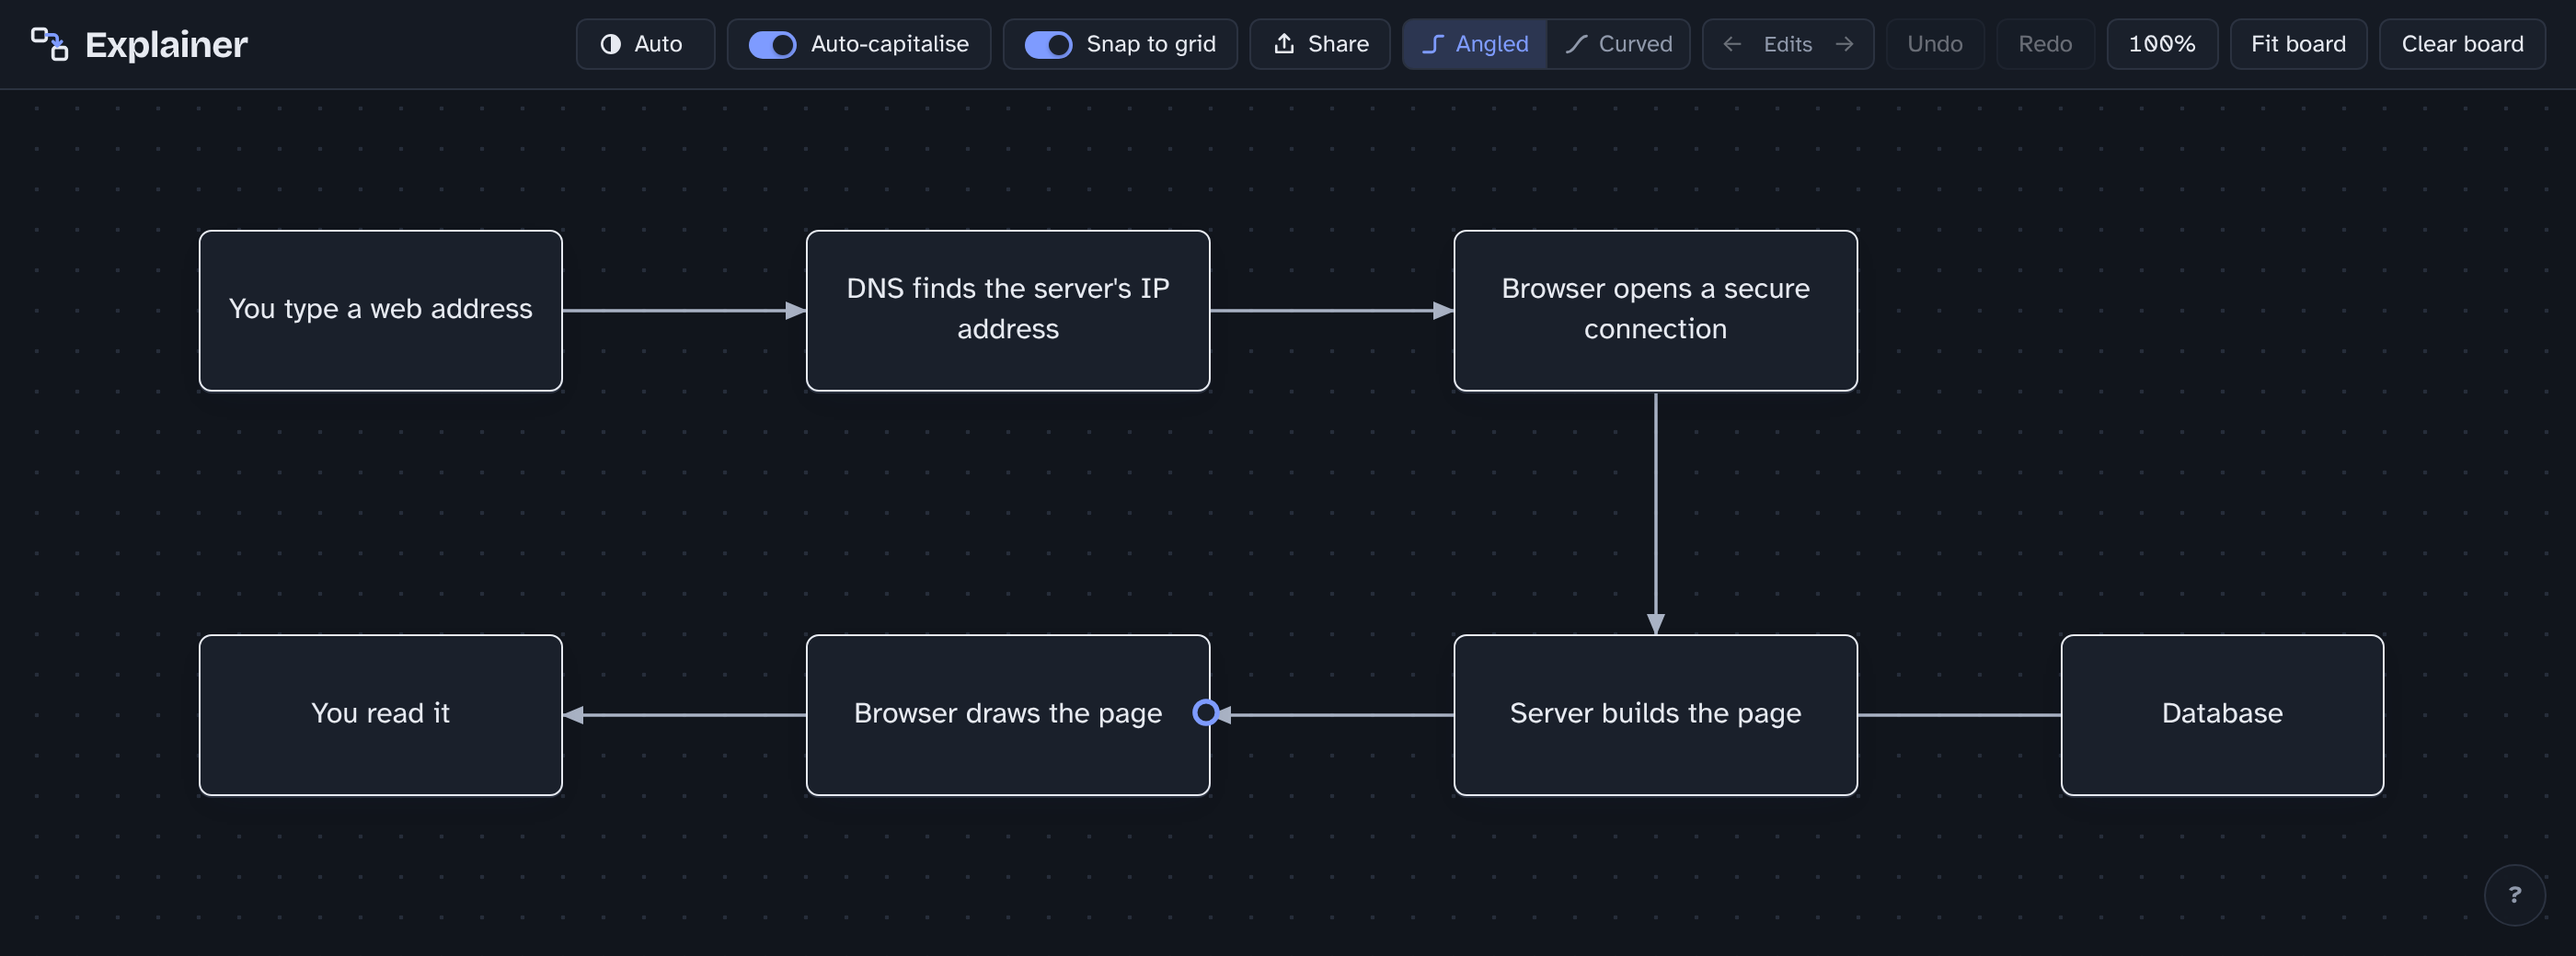
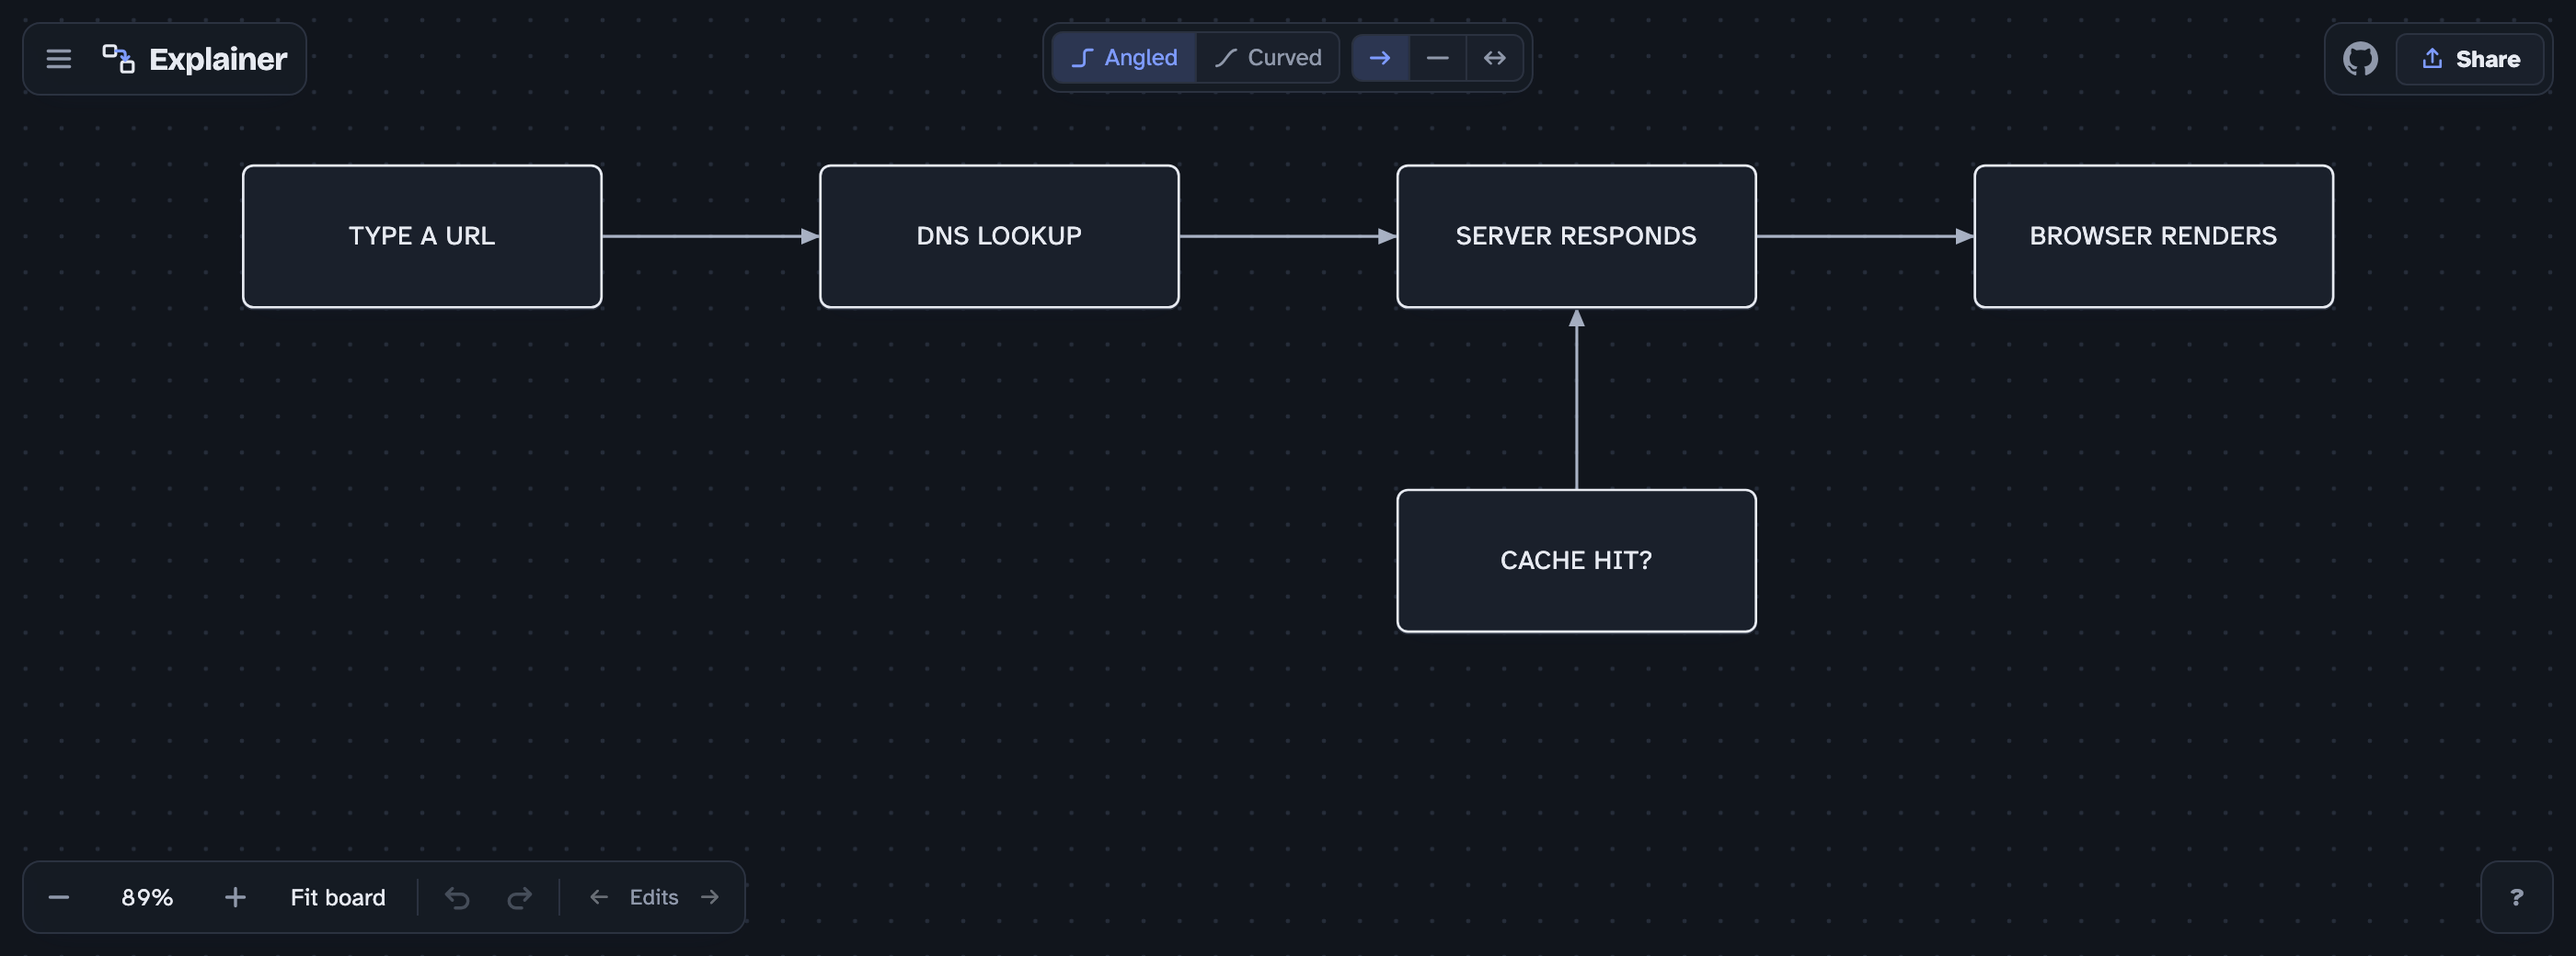
Record D-057..D-062; update README, shortcuts panel and screenshots

diff --git a/index.html b/index.html
@@ -317,6 +317,7 @@ body.help-open .wl-help{display:none}
     <dt>Double-click a dot, drag</dt><dd>Line, no arrow</dd>
     <dt>Hold <kbd>⇧</kbd> while dropping a line</dt><dd>Line, no arrow</dd>
     <dt>Hold <kbd>⇧</kbd> <kbd>Ctrl</kbd> while dropping</dt><dd>Arrows both ways</dd>
+    <dt>Select a line</dt><dd>Toolbar: style, arrows, reverse</dd>
     <dt>Scroll · <kbd>Space</kbd>+drag</dt><dd>Pan</dd>
     <dt><kbd class="mod">Ctrl</kbd>+scroll</dt><dd>Zoom</dd>
     <dt><kbd class="mod">Ctrl</kbd>+click a box</dt><dd>Arrow from the selected box</dd>
@@ -330,7 +331,7 @@ body.help-open .wl-help{display:none}
     <dt><kbd>⇧</kbd> <kbd class="mod">Ctrl</kbd> <kbd>Z</kbd></dt><dd>Redo</dd>
     <dt>Hover a line, drag</dt><dd>New line from its end</dd>
     <dt><kbd>Alt</kbd> <kbd>←</kbd> / <kbd>→</kbd></dt><dd>Jump between edits</dd>
-    <dt>Angled / Curved</dt><dd>Style of selected + new lines</dd>
+    <dt>Top island</dt><dd>Style of new lines</dd>
     <dt><kbd>G</kbd></dt><dd>Snap to grid on/off</dd>
     <dt><kbd>T</kbd></dt><dd>Theme: Auto / Light / Dark</dd>
     <dt><kbd>Esc</kbd></dt><dd>Stop editing</dd>

diff --git a/DECISIONS.md b/DECISIONS.md
@@ -320,7 +320,7 @@ Active decision is a bug. Read it before changing behaviour, and update it in th
 - Code: `places`, `recordPlace`, `goPlace`.
 
 ### D-036: Line style: Angled or Curved, per line
-- Status: Active
+- Status: Amended by D-060
 - Date: 2026-10-13
 - Amends: D-028
 - Decision: The "Angled | Curved" switch changes the selected lines, or with nothing selected sets
@@ -329,7 +329,7 @@ Active decision is a bug. Read it before changing behaviour, and update it in th
 - Code: `lineStyle`, `setLineStyle`, `arcCurve`, link field `curve`.
 
 ### D-037: Shortcuts panel remembers its state; open on first visit
-- Status: Amended by D-038
+- Status: Amended by D-038, D-057
 - Amends: D-022
 - Date: 2026-10-13
 - Decision: Open or minimised is remembered at every screen size. On a first visit it opens,
@@ -476,7 +476,7 @@ Active decision is a bug. Read it before changing behaviour, and update it in th
   `dblclick`; shortcuts panel; README table.
 
 ### D-052: Shift for a plain line, Shift+Ctrl for arrows at both ends
-- Status: Active
+- Status: Amended by D-062
 - Date: 2026-10-13
 - Amends: D-051
 - Decision: When dropping a line dragged from a dot, holding Shift makes it a plain line (no
@@ -524,7 +524,7 @@ Active decision is a bug. Read it before changing behaviour, and update it in th
   clipboard type `application/x-explainer+json`; shortcuts panel; README.
 
 ### D-055: GitHub link in the top-right corner
-- Status: Active
+- Status: Amended by D-057
 - Date: 2026-10-13
 - Decision: The header's top-right corner shows the GitHub mark, linking to
   https://github.com/andidev/explainer in a new tab. It stays in that corner at every width; the
@@ -550,3 +550,81 @@ Active decision is a bug. Read it before changing behaviour, and update it in th
   toggling all three modes.
 - Code: `capMode`, `setCap`, `CAPS`, `body.caps .txt` (text-transform), `readText` (reads with
   the transform off), `clipText`, `currentSettings`/`applySettings`, `explainer.capmode`, `sample`.
+
+### D-057: Floating islands replace the header
+- Status: Active
+- Date: 2026-10-13
+- Amends: D-055, D-037
+- Decision: There is no header; the board fills the window and small islands float over it.
+  Top-left: the ☰ menu button, the mark, the wordmark and the "Example board" tag. Top-centre:
+  the style for new lines (Angled/Curved and arrowheads). Top-right: the GitHub link and Share.
+  Bottom-left: zoom −, the zoom percentage, zoom +, Fit board, Undo, Redo and the Edits control.
+  Bottom-right: the **?** button for shortcuts. The GitHub link of D-055 now sits in the top-right
+  island. At 860px or less the top-centre island moves under the top row. At 640px or less Fit
+  board and the Edits control move into the ☰ menu, and the "Example board" tag and the words
+  Angled/Curved are hidden. Amending D-037: the shortcuts panel now opens on a first visit only
+  on windows wider than 640px (was 480px). At 860px or less the panel's height is capped so it
+  stays below the top islands.
+- Why: User chose the floating layout inspired by Excalidraw, so the board gets the whole window.
+- Code: `#islTL`, `#islTC`, `#islTR`, `#islBL`, `.isl` and the media queries at 860px and 640px,
+  `setHelp`, `helpPref`.
+
+### D-058: Quiet Share button
+- Status: Active
+- Date: 2026-10-13
+- Decision: Share looks like the other islands: island surface, accent-coloured icon, and a soft
+  accent tint on hover. It is not a solid block of colour.
+- Why: User chose the floating layout inspired by Excalidraw, where Share should not shout.
+- Code: `#shareBtn` and its CSS in `#islTR`.
+
+### D-059: The ☰ menu
+- Status: Active
+- Date: 2026-10-13
+- Decision: The ☰ button opens a menu with: Theme, Capitals and Snap to grid (these rows stay
+  open when clicked so you can cycle them); Open the example board; Clear board; on phone-width
+  windows only, Fit board, Previous edit place and Next edit place; Shortcuts; Source on GitHub.
+  It closes on Esc or a click outside it.
+- Why: User chose the floating layout inspired by Excalidraw, with settings in one menu instead of
+  header buttons.
+- Code: `#menu`, `#menuBtn`, `openMenu`, `#themeBtn`, `#capBtn`, `#snapBtn`, `.phone-only`.
+
+### D-060: Selection toolbar
+- Status: Active
+- Date: 2026-10-13
+- Amends: D-036
+- Decision: Selecting items shows a small toolbar above the selection, or below it when there is
+  no room above (top clearance 64px, or 112px at 860px or less). For selected lines it is placed
+  against the lines plus the boxes they connect, so it never covers those boxes. For lines it
+  has Angled/Curved, arrow at the end / plain / arrows at both ends, and Reverse (shown only when
+  a selected line has an arrow at one end only). Copy and Delete are always shown. Each change is
+  one undo step. The toolbar is hidden while dragging, drawing or editing, and when the whole
+  selection is off-screen. Amending D-036: the top-centre island no longer changes selected lines;
+  it sets the style for new lines only.
+- Why: User chose the floating layout inspired by Excalidraw, with line options next to the line.
+- Code: `#selbar`, `positionSelbar`, `sb*` buttons, `setLineStyle`.
+
+### D-061: Welcome on an empty board
+- Status: Active
+- Date: 2026-10-13
+- Decision: An empty board shows a welcome in the middle: the logo, "Boxes, lines, and nothing in
+  the way.", two hints (double-click to add a box; select a box and ⌘-click another to connect),
+  and the links Open the example board, Shortcuts and Source on GitHub. Two handwritten notes
+  point at the ☰ menu and at **?**; they are hidden at 860px or less, and the shortcuts note is
+  hidden while the shortcuts panel is open. Presses pass through the welcome to the board, apart
+  from its three links. It disappears as soon as there is a box. A first visit still opens the
+  example board (D-053).
+- Why: User chose the floating layout inspired by Excalidraw, where an empty board is welcoming.
+- Code: `#welcome`, `updateWelcome`, `.wl-*` CSS.
+
+### D-062: Arrowheads for new lines
+- Status: Active
+- Date: 2026-10-13
+- Amends: D-052
+- Decision: The top-centre island sets the arrowheads of new lines: arrow at the end (default),
+  plain, or arrows at both ends. The setting is remembered and travels in share links as key `a`
+  (0 none, 1 end, 2 both); a link without `a` leaves the setting unchanged. It does not change
+  existing lines. Holding Shift while dropping a line (plain) or Shift+Ctrl (both ends) still
+  overrides it for that line.
+- Why: User chose the floating layout inspired by Excalidraw, with the new-line style in the
+  top island.
+- Code: `newHeads`, `setNewHeads`, `headsFrom`, `explainer.newheads`, `currentSettings`/`applySettings`.

diff --git a/README.md b/README.md
@@ -37,16 +37,21 @@ of the way.
 
 **Draw.** Drag on empty space, or double-click it, and a box appears with the cursor already in it.
 Text stays centred and wraps. When the box fills up it grows by half again, so you never stop to
-resize. Text shows in capitals by default; the **All caps** button switches to **Sentence case**
+resize. Text shows in capitals by default; **Capitals**, in the ☰ menu, switches to **Sentence case**
 (a capital starts each sentence) or **As typed**, and your text is kept as you typed it.
 
 **Connect.** Move toward the edge of a box and the nearest connection dot appears. Drag it onto
 another box. Lines find their own way around other boxes, and you can choose angled or curved lines.
+The island at the top centre sets the style and arrowheads of new lines.
 Hold Shift as you drop it for a plain line without an arrow, or Shift+Ctrl for arrows at both ends.
 (Double-clicking a dot before dragging also gives a line without an arrow.)
 
 **Arrange.** Drag a box from anywhere to move it, and its lines follow. Drag across several items to
 select them, or Shift+click to add to the selection. Boxes snap to the grid unless you turn it off.
+
+**Change a line.** Click a line and a toolbar appears above it: angled or curved, arrow at the end,
+plain or both ends, reverse direction, copy and delete. The ☰ menu holds the theme, capitals and
+snap to grid.
 
 **Share.** The whole board lives in the page's address, so the link *is* the diagram. Refresh and it
 is still there. Use **Share** to copy a link to the whole board or to only the items you selected.
@@ -66,6 +71,7 @@ Your settings, including light or dark mode, travel with the link.
 | Delete selected | Backspace or Delete |
 | Delete the box you're typing in, when it's empty | Backspace or Delete |
 | Plain line / arrows both ways | Hold Shift / Shift+Ctrl while dropping a line |
+| Change a selected line (style, arrowheads, reverse) | Use the toolbar above it |
 | Arrow from the selected box to another box | ⌘+click the other box (Ctrl+click on Windows) |
 | …a line without arrowheads instead | ⌘+Shift+click (Ctrl+Shift+click on Windows) |
 | …arrowheads at both ends instead | ⌘+Shift+Ctrl+click (Ctrl+Shift+Alt+click on Windows) |

diff --git a/CLAUDE.md b/CLAUDE.md
@@ -27,6 +27,7 @@ It describes how the app must behave.
 - History: `commit()` snapshots `state` for undo/redo; call it after every user-visible change.
 - Gestures: viewport `pointerdown` dispatches to `downCanvas`, `downBox`, `downHandle`, `startPan`;
   the active gesture lives in `gesture` and must end via `endGesture`/`cancelGesture`.
+- Chrome: floating islands (#islTL/#islTC/#islTR/#islBL), ☰ #menu, #selbar (positionSelbar), #welcome (updateWelcome).
 - Lines: `linkGeom` → `route` (orthogonal path search) or `arcCurve`; drawn in `renderLinks`.
 - Persistence: localStorage (`explainer.*` keys) plus the URL hash via `pack`/`encodeBoard`.
   If you add state or a setting, include it in `pack`/`unpack` or `currentSettings`/`applySettings`,
